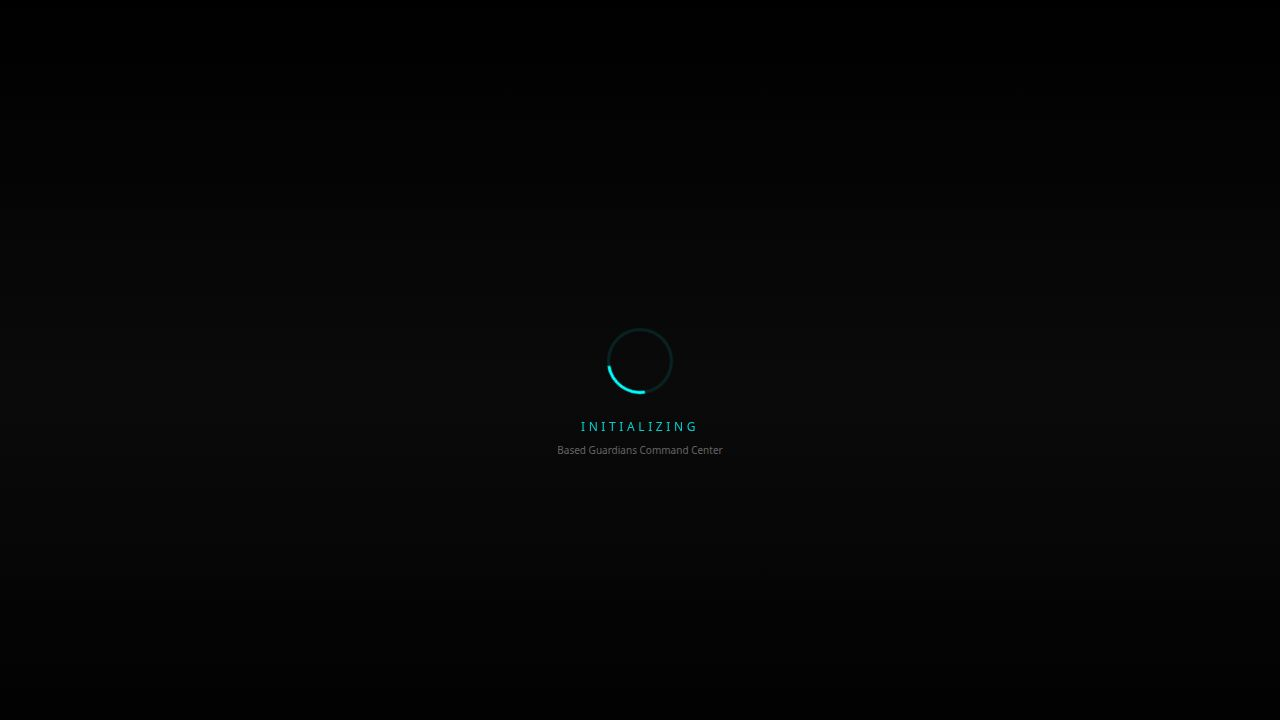
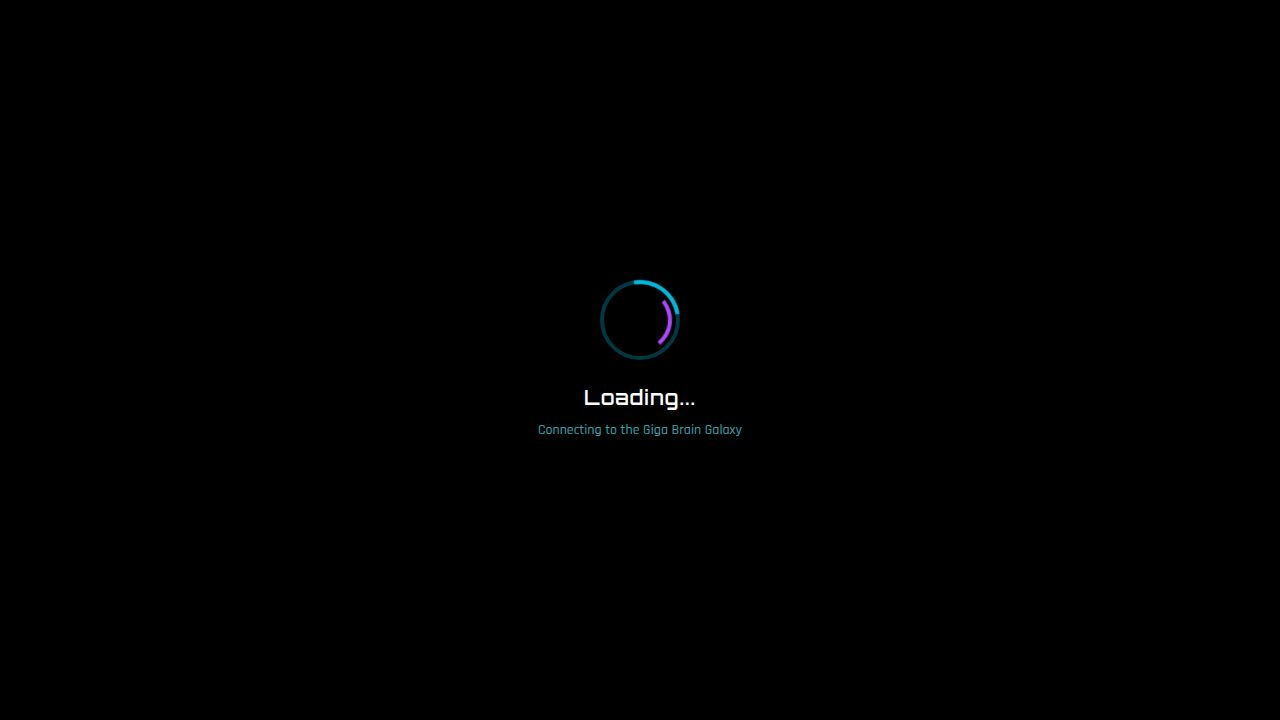
Update the application's loading screen to a new design
Replace the static loading screen in index.html with a dual-ring spinner animation and updated text, aligning it with the preferred UI.

Replit-Commit-Author: Agent
Replit-Commit-Session-Id: cbf88d6d-a4c4-469f-9cec-970135484fbb
Replit-Commit-Checkpoint-Type: full_checkpoint
Replit-Commit-Event-Id: 20be930b-27d6-40e8-b8cf-57d066b83738
Replit-Commit-Screenshot-Url: https://storage.googleapis.com/screenshot-production-us-central1/dcbcc8f3-b813-446b-9559-1b9a61a57088/cbf88d6d-a4c4-469f-9cec-970135484fbb/YiewRyx
Replit-Helium-Checkpoint-Created: true

Changed region(s): [[0.4062, 0.3667, 0.5938, 0.6417]]

diff --git a/client/index.html b/client/index.html
@@ -53,17 +53,24 @@
   </head>
   <body style="margin: 0; background: #000;">
     <div id="root">
-      <div id="app-loader" style="min-height: 100vh; display: flex; flex-direction: column; align-items: center; justify-content: center; background: linear-gradient(to bottom, #000, #0a0a0a, #000); font-family: system-ui, -apple-system, sans-serif; padding: 2rem; text-align: center;">
+      <div id="app-loader" style="min-height: 100vh; display: flex; flex-direction: column; align-items: center; justify-content: center; background: #000; font-family: system-ui, -apple-system, sans-serif; padding: 2rem; text-align: center;">
         <style>
-          @keyframes pulse-glow { 0%, 100% { opacity: 0.4; } 50% { opacity: 1; } }
           @keyframes spin { to { transform: rotate(360deg); } }
-          .loader-ring { width: 60px; height: 60px; border: 3px solid rgba(0,255,255,0.1); border-top-color: #00ffff; border-radius: 50%; animation: spin 1s linear infinite; }
-          .loader-text { color: #00ffff; font-size: 12px; letter-spacing: 0.3em; animation: pulse-glow 2s ease-in-out infinite; margin-top: 1.5rem; }
-          .loader-subtext { color: #666; font-size: 10px; margin-top: 0.5rem; }
+          @keyframes spin-reverse { to { transform: rotate(-360deg); } }
+          .loader-container { position: relative; width: 80px; height: 80px; margin-bottom: 24px; }
+          .loader-ring-outer { position: absolute; inset: 0; border: 4px solid rgba(0,255,255,0.3); border-radius: 50%; }
+          .loader-ring-cyan { position: absolute; inset: 0; border: 4px solid transparent; border-top-color: #00ffff; border-radius: 50%; animation: spin 1s linear infinite; }
+          .loader-ring-purple { position: absolute; inset: 8px; border: 4px solid transparent; border-top-color: #a855f7; border-radius: 50%; animation: spin-reverse 1.5s linear infinite; }
+          .loader-text { color: white; font-size: 20px; font-weight: 600; margin-bottom: 8px; font-family: 'Orbitron', system-ui, sans-serif; }
+          .loader-subtext { color: rgba(0,255,255,0.7); font-size: 14px; }
         </style>
-        <div class="loader-ring"></div>
-        <div class="loader-text">INITIALIZING</div>
-        <div class="loader-subtext">Based Guardians Command Center</div>
+        <div class="loader-container">
+          <div class="loader-ring-outer"></div>
+          <div class="loader-ring-cyan"></div>
+          <div class="loader-ring-purple"></div>
+        </div>
+        <div class="loader-text">Loading...</div>
+        <div class="loader-subtext">Connecting to the Giga Brain Galaxy</div>
       </div>
       <noscript>
         <div style="min-height: 100vh; display: flex; flex-direction: column; align-items: center; justify-content: center; background: #000; color: white; font-family: system-ui, -apple-system, sans-serif; text-align: center; padding: 2rem;">
